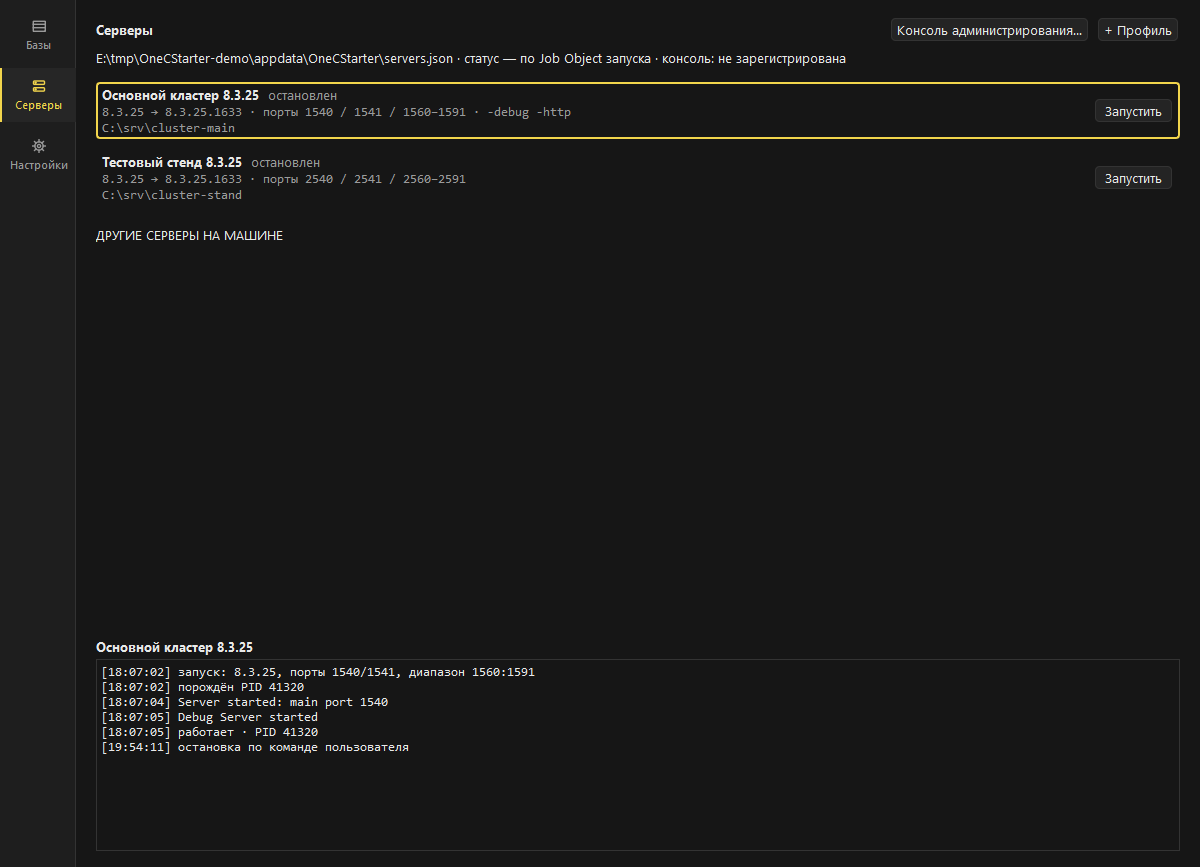
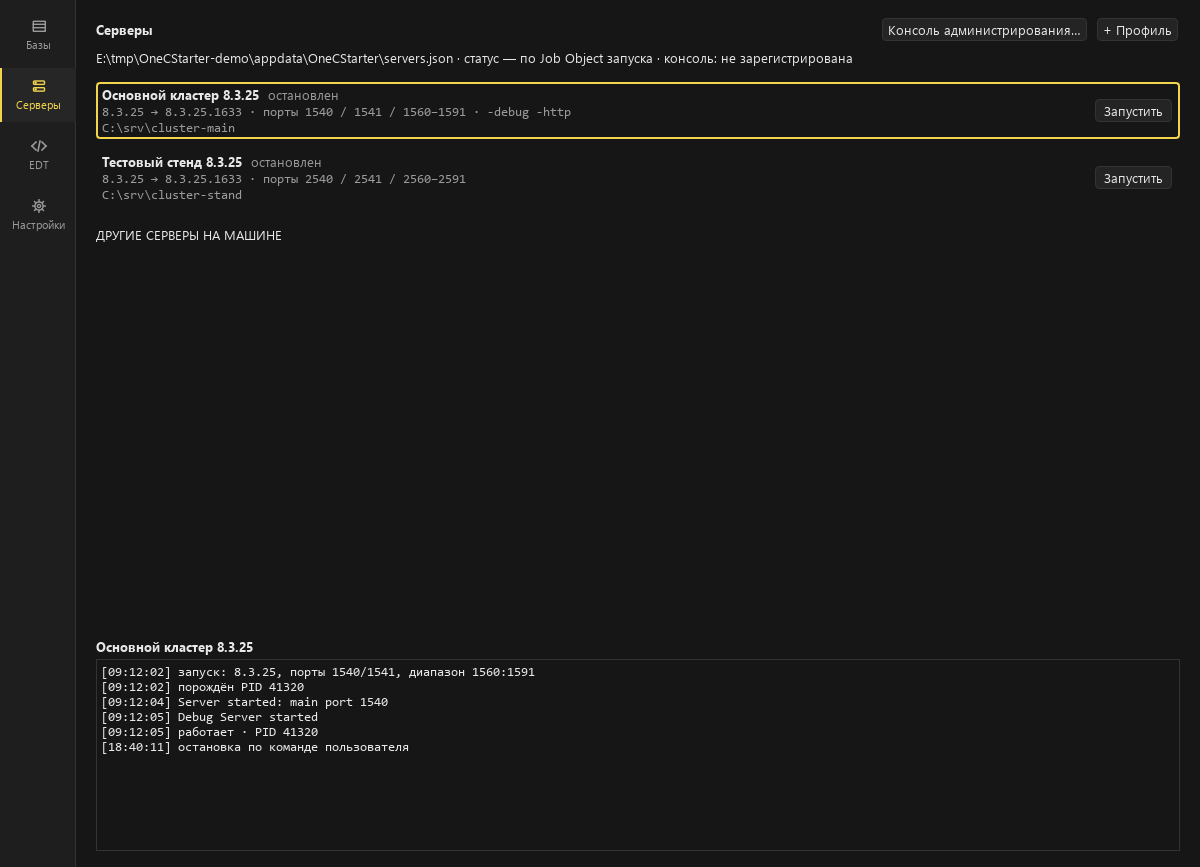
docs: README без привязки к версиям — разделы «Базы», «Серверы», «EDT», «Настройки»; новые скриншоты на демо-данных, добавлен скриншот EDT; раздел сравнения со штатным стартером убран

diff --git a/README.md b/README.md
@@ -6,30 +6,49 @@
 > explicit platform version control, local 1C server management,
 > 1C:EDT workspaces with CLI import. Russian UI; docs below are in Russian.
 
-Программа запуска информационных баз 1С:Предприятие для специалистов:
-дерево групп, мгновенный поиск, избранное, история, явный контроль версии
-платформы, ярлыки на базы, drag&drop каталога файловой базы, порядок
-списка по алфавиту или как в файле, сворачивание в трей при запуске,
-логин и пароль для входа. Отдельные разделы — «Серверы» для локальных
-серверов 1С и «EDT» для рабочих областей 1C:EDT: запуск нужной версии
-с нужной JVM и команды `1cedtcli.exe`, включая импорт проектов из клона
-репозитория одним сеансом. Базы, опубликованные на веб-сервере,
-открываются тонким клиентом или в браузере — по выбору.
+Программа запуска информационных баз 1С:Предприятие для специалистов.
+Три раздела в одном окне: «Базы» — список баз с явным контролем версии
+платформы, «Серверы» — локальные серверы 1С для разработки, «EDT» — рабочие
+области 1C:EDT с запуском нужной версии и командами `1cedtcli.exe`.
+Список баз — тот же `ibases.v8i`, что у штатного стартера: после любой
+операции файл остаётся рабочим для 1CEStart, удаление OneCStarter ничего
+не теряет.
 
-![Окно OneCStarter: дерево баз с версиями платформы, избранное и недавние, панель пути подключения](docs/assets/screenshot.png)
+![Раздел «Базы»: дерево групп с версиями платформы, избранное и недавние, панель пути](docs/assets/screenshot.png)
 
-## Чем лучше штатного стартера
+## Базы
 
-| # | Штатный стартер | OneCStarter |
-| --- | --- | --- |
-| А | Версия платформы неуправляема: несоответствие видно только после падения | Колонка версии у каждой базы, подсветка не установленных версий, явный выбор при запуске |
-| Б | Плоский список не масштабируется: нет поиска, избранного, истории | Дерево групп, мгновенный поиск, избранное, история запусков, трей и глобальный хоткей |
-| Г | Добавление базы — ручное заполнение полей | Drag&drop каталога файловой базы в окно, автозаполнение полей |
-| Д | Знает только «свои» версии платформы; выход новой требует обновления стартера | Знание о версиях платформы — данные, не код |
+- **Дерево и поиск.** Группы как в файле, «Избранное» и «Недавние» сверху,
+  порядок — по алфавиту или как в файле. Поиск по имени (`Ctrl+F`, крестик
+  очистки); `Enter` в поиске запускает первую найденную.
+- **Версия платформы.** Колонка версии у каждой базы, не установленные версии
+  подсвечены, при запуске версия выбирается явно. У веб- и клиент-серверных баз
+  версию решает сервер — колонка так и говорит («веб», «сервер»), своя версия
+  не навязывается. Знание о версиях платформы — данные, не код: выход новой
+  версии не требует обновления программы.
+- **Запуск.** `Enter`/`F3` — 1С:Предприятие, `F4` — конфигуратор, `Ctrl+1/2/3` —
+  тонкий, толстый клиент, конфигуратор; ярлыки на базы; сворачивание в трей при
+  запуске; глобальная горячая клавиша для окна.
+- **Веб-базы.** Базу, опубликованную на веб-сервере, открывает тонкий клиент
+  или браузер — решает ключ `App` записи (его читает и штатный стартер), для
+  записей без него — настройка «Веб-базы открывать». Разовый выбор — в
+  контекстном меню.
+- **Логин и пароль.** Включается для конкретной записи. Логин — в наших данных,
+  пароль — в диспетчере учётных данных Windows (DPAPI). Цена: у GUI-клиента 1С
+  нет входа через stdin, пароль передаётся в командной строке (`/P`) и **виден
+  любой программе под вашей учётной записью всё время работы клиента** —
+  программа предупреждает об этом при сохранении.
+- **Доступность файловых баз.** Каталог, исчезнувший с диска (съёмный носитель,
+  сетевая шара), виден до запуска: крестик на значке и «(нет каталога)» в строке.
+  Проверка идёт в фоне при старте и по `F5`, без таймера — чтобы не будить
+  внешние диски и VPN.
+- **Правка списка.** Drag&drop каталога файловой базы в окно с автозаполнением
+  полей; `Alt+Enter` — свойства записи или группы, `Insert` — новая база в группу
+  текущей строки, `Delete` — удалить (с подтверждением), `Alt+↑/↓` — переставить.
+  Путь в панели снизу — ссылка: клик открывает каталог, правая кнопка —
+  «Копировать». Справочник всех сочетаний — в настройках.
 
-Подробности и способ измерения каждого пункта — [docs/requirements.md](docs/requirements.md), §2.
-
-## Раздел «Серверы» (v2)
+## Серверы
 
 Локальные серверы 1С для разработки — из того же окна: профиль сервера
 (версия `ragent`, порты, каталог кластера, `-debug`/`-http`), запуск
@@ -42,95 +61,59 @@
 
 ![Раздел «Серверы»: профили с портами и статусом, журнал профиля](docs/assets/screenshot-servers.png)
 
-## Веб-базы: тонкий клиент или браузер (v2.3)
+## EDT
 
-Базу, опубликованную на веб-сервере (`Connect=ws=…`), открывает тонкий клиент
-или браузер — решает ключ `App` в свойствах записи, а для записей без него —
-настройка «Веб-базы открывать». Разовый выбор есть в контекстном меню:
-«Тонкий клиент» и «Открыть в браузере». Ключ `App` читает и штатный стартер,
-поэтому выбор переживает нашу программу.
+![Раздел «EDT»: рабочие области с версией EDT и памятью, панель путей, консоль CLI](docs/assets/screenshot-edt.png)
 
-Версию платформы для веб- и клиент-серверных баз выбирает **сервер** —
-публикация или кластер, — а не ключ `Version` из списка. Мы её не навязываем:
-колонка версии у таких баз показывает «веб» или «сервер» и подсказку, кто
-решает. Попытка навязать свою версию оборачивалась зависанием клиента
-на «Загрузка конфигурационной информации…» без единого сообщения — это
-исправлено.
-
-## Логин и пароль (v2.2)
-
-Логин хранится в наших данных, пароль — в диспетчере учётных данных Windows
-(DPAPI). Функция включается для конкретной записи и выключена по умолчанию.
-
-Учтите цену: у GUI-клиента 1С нет входа через stdin, поэтому пароль передаётся
-в командной строке (`/P`) и **виден любой программе, работающей под вашей
-учётной записью, всё время работы клиента**. Обойти это нельзя — можно только
-не включать функцию. Программа предупреждает об этом при сохранении пароля.
-
-## Доступность файловых баз (v2.4)
-
-Файловую базу, чей каталог исчез с диска (отключённый съёмный носитель, удалённая
-папка, недоступная сетевая шара), список показывает раньше запуска: крестик
-на значке размещения и суффикс «(нет каталога)» в конце строки. Проверка каталога
-и файла базы идёт в фоне при старте программы и повторяется по `F5` — без
-периодической проверки по таймеру, чтобы не будить внешние диски и VPN лишний раз.
-Серверные и веб-базы эта проверка не касается — их доступность решает сервер,
-а не локальный диск.
-
-## Проекты EDT (v3)
-
-Раздел «EDT» — список рабочих областей 1C:EDT с группами. Для записи: версия EDT
-(точное совпадение с установленной), JVM, память (действующий `-Xmx` виден в колонке
-«Память») и язык. «Открыть в EDT» запускает нужную версию с правильной JVM, повторный
-запуск переключает на открытое окно (зелёный ▶ справа от имени — EDT запущен).
-«Открыть в VS Code» / «Открыть в Antigravity» открывают каталог проекта (может лежать
-вне рабочей области). Импорт записей из EDT Start — вручную, только новое; реестр
-EDT Start только читается, список хранится в `%APPDATA%\OneCStarter\edt.json`.
+**Записи.** Список рабочих областей 1C:EDT с группами. У записи — версия EDT
+(точное совпадение с установленной), JVM, память (действующий `-Xmx` — в колонке
+«Память») и язык. «Открыть в EDT» запускает нужную версию с правильной JVM,
+повторный запуск переключает на открытое окно (зелёный ▶ у имени — EDT запущен).
+«Открыть в VS Code» / «Открыть в Antigravity» открывают каталог проекта (может
+лежать вне рабочей области). Записи можно импортировать из EDT Start — вручную,
+только новые; реестр EDT Start только читается, список хранится в
+`%APPDATA%\OneCStarter\edt.json`.
 
 **CLI.** Подменю «CLI» — сборка, импорт, проверка и информация по проектам через
-`1cedtcli.exe` с выводом в сворачиваемую консоль; работает только на рабочей области,
-не открытой в EDT (иначе CLI вернёт код 202). Перечень проектов для проверки берётся
-из реестра рабочей области (`.metadata`), а не из подкаталогов — проекты EDT обычно
-лежат снаружи.
+`1cedtcli.exe` с выводом в сворачиваемую консоль; работает только на рабочей
+области, не открытой в EDT (иначе CLI вернёт код 202). Перечень проектов для
+проверки берётся из реестра рабочей области (`.metadata`), а не из подкаталогов —
+проекты EDT обычно лежат снаружи.
 
-**Импорт проектов (3.1.1).** «Импортировать проекты…» подставляет каталог проекта
+**Импорт проектов.** «Импортировать проекты…» подставляет каталог проекта
 записи, находит в нём проекты EDT так же, как мастер импорта самой EDT (каталоги
 с `.project`, до трёх уровней вглубь) и показывает их с флажками; уже привязанные
 к рабочей области недоступны. Отмеченные импортируются одним сеансом CLI — скрипт
 `-file` с JDK через `-ini-file`: два проекта — около минуты вместо ~48 с на каждый
-порознь (каждый запуск CLI поднимает headless-Eclipse). При ошибке скрипт останавливается на первой неудавшейся команде (код 204),
-текст ошибки — в журнале.
+порознь (каждый запуск CLI поднимает headless-Eclipse). При ошибке скрипт
+останавливается на первой неудавшейся команде (код 204), текст ошибки — в журнале.
 
-**Клавиши.** Enter — открыть в EDT, Alt+Enter — изменить запись или группу, Insert —
-добавить запись в группу текущей строки, Delete — удалить, F5 — обновить установки
-и состояние; справочник сочетаний обоих разделов — в Настройках → «Горячие клавиши».
+**Клавиши.** `Enter` — открыть в EDT, `Alt+Enter` — изменить запись или группу,
+`Insert` — добавить запись в группу текущей строки, `Delete` — удалить, `F5` —
+обновить установки и состояние.
 
-**По замечаниям проверки (3.1).** Пути в панелях «Базы» и «EDT» — ссылки: клик
-открывает каталог, правая кнопка — «Копировать» (у серверных и веб-баз — только
-копирование). Поиск в обоих разделах — Ctrl+F и крестик очистки. Версия программы
-и ссылка на репозиторий — в Настройках → «О программе»; раздел настроек
-прокручивается, окно при раскрытии групп не растёт.
+## Настройки
+
+Тема (тёмная, светлая, как в системе), глобальная горячая клавиша окна,
+поведение трея и автозапуск, клиент по умолчанию и веб-базы, размер истории,
+корень каталогов серверов, JVM и редакторы для EDT, справочник сочетаний
+разделов «Базы» и «EDT», версия программы и ссылка на репозиторий.
+Настройки применяются сразу и хранятся в `%APPDATA%\OneCStarter\settings.json`.
 
 ## Установка
 
 Последний выпуск — на странице
 [Releases](https://github.com/AnanyevAl/OnecStarter/releases/latest):
 
-- **Установщик:** `OneCStarter-3.1.1-setup.exe` — per-user, права
+- **Установщик:** `OneCStarter-<версия>-setup.exe` — per-user, права
   администратора не нужны.
-- **Portable:** распаковать `OneCStarter-3.1.1-portable.zip`, запустить
+- **Portable:** распаковать `OneCStarter-<версия>-portable.zip`, запустить
   `OneCStarter.exe`.
-
-Настройки и списки хранятся в `%APPDATA%\OneCStarter` и при обновлении сохраняются.
 
 SmartScreen при первом запуске предупредит о неизвестном издателе:
 сборки не подписаны (сертификата нет). Исходники открыты — сборку можно
-воспроизвести самостоятельно (см. ниже).
-
-## Совместимость со штатным стартером
-
-`ibases.v8i` — источник правды; после любой операции файл остаётся рабочим
-для 1CEStart. Удаление OneCStarter ничего не теряет.
+воспроизвести самостоятельно (см. ниже). Настройки и списки хранятся
+в `%APPDATA%\OneCStarter` и при обновлении сохраняются.
 
 ## Диагностика
 
@@ -150,14 +133,14 @@ powershell -File build/build.ps1
 `powershell -File build/build.ps1 -SkipInstaller`.
 
 Устройство исходников и правила для изменений — [CONTRIBUTING.md](CONTRIBUTING.md).
+Требования и решения по каждой функции — [docs/requirements.md](docs/requirements.md).
 
 ## Границы
 
 1С:Предприятие 7.7 не поддерживается; телеметрии и любого сбора данных нет.
 Пароль сохраняется только если вы это включили для конкретной записи, и только
 в диспетчере учётных данных Windows — свои файлы программы секретов не хранят
-(см. «Логин и пароль» выше). Подробнее:
-[docs/requirements.md](docs/requirements.md).
+(см. «Логин и пароль» выше).
 
 ## Лицензия
 
